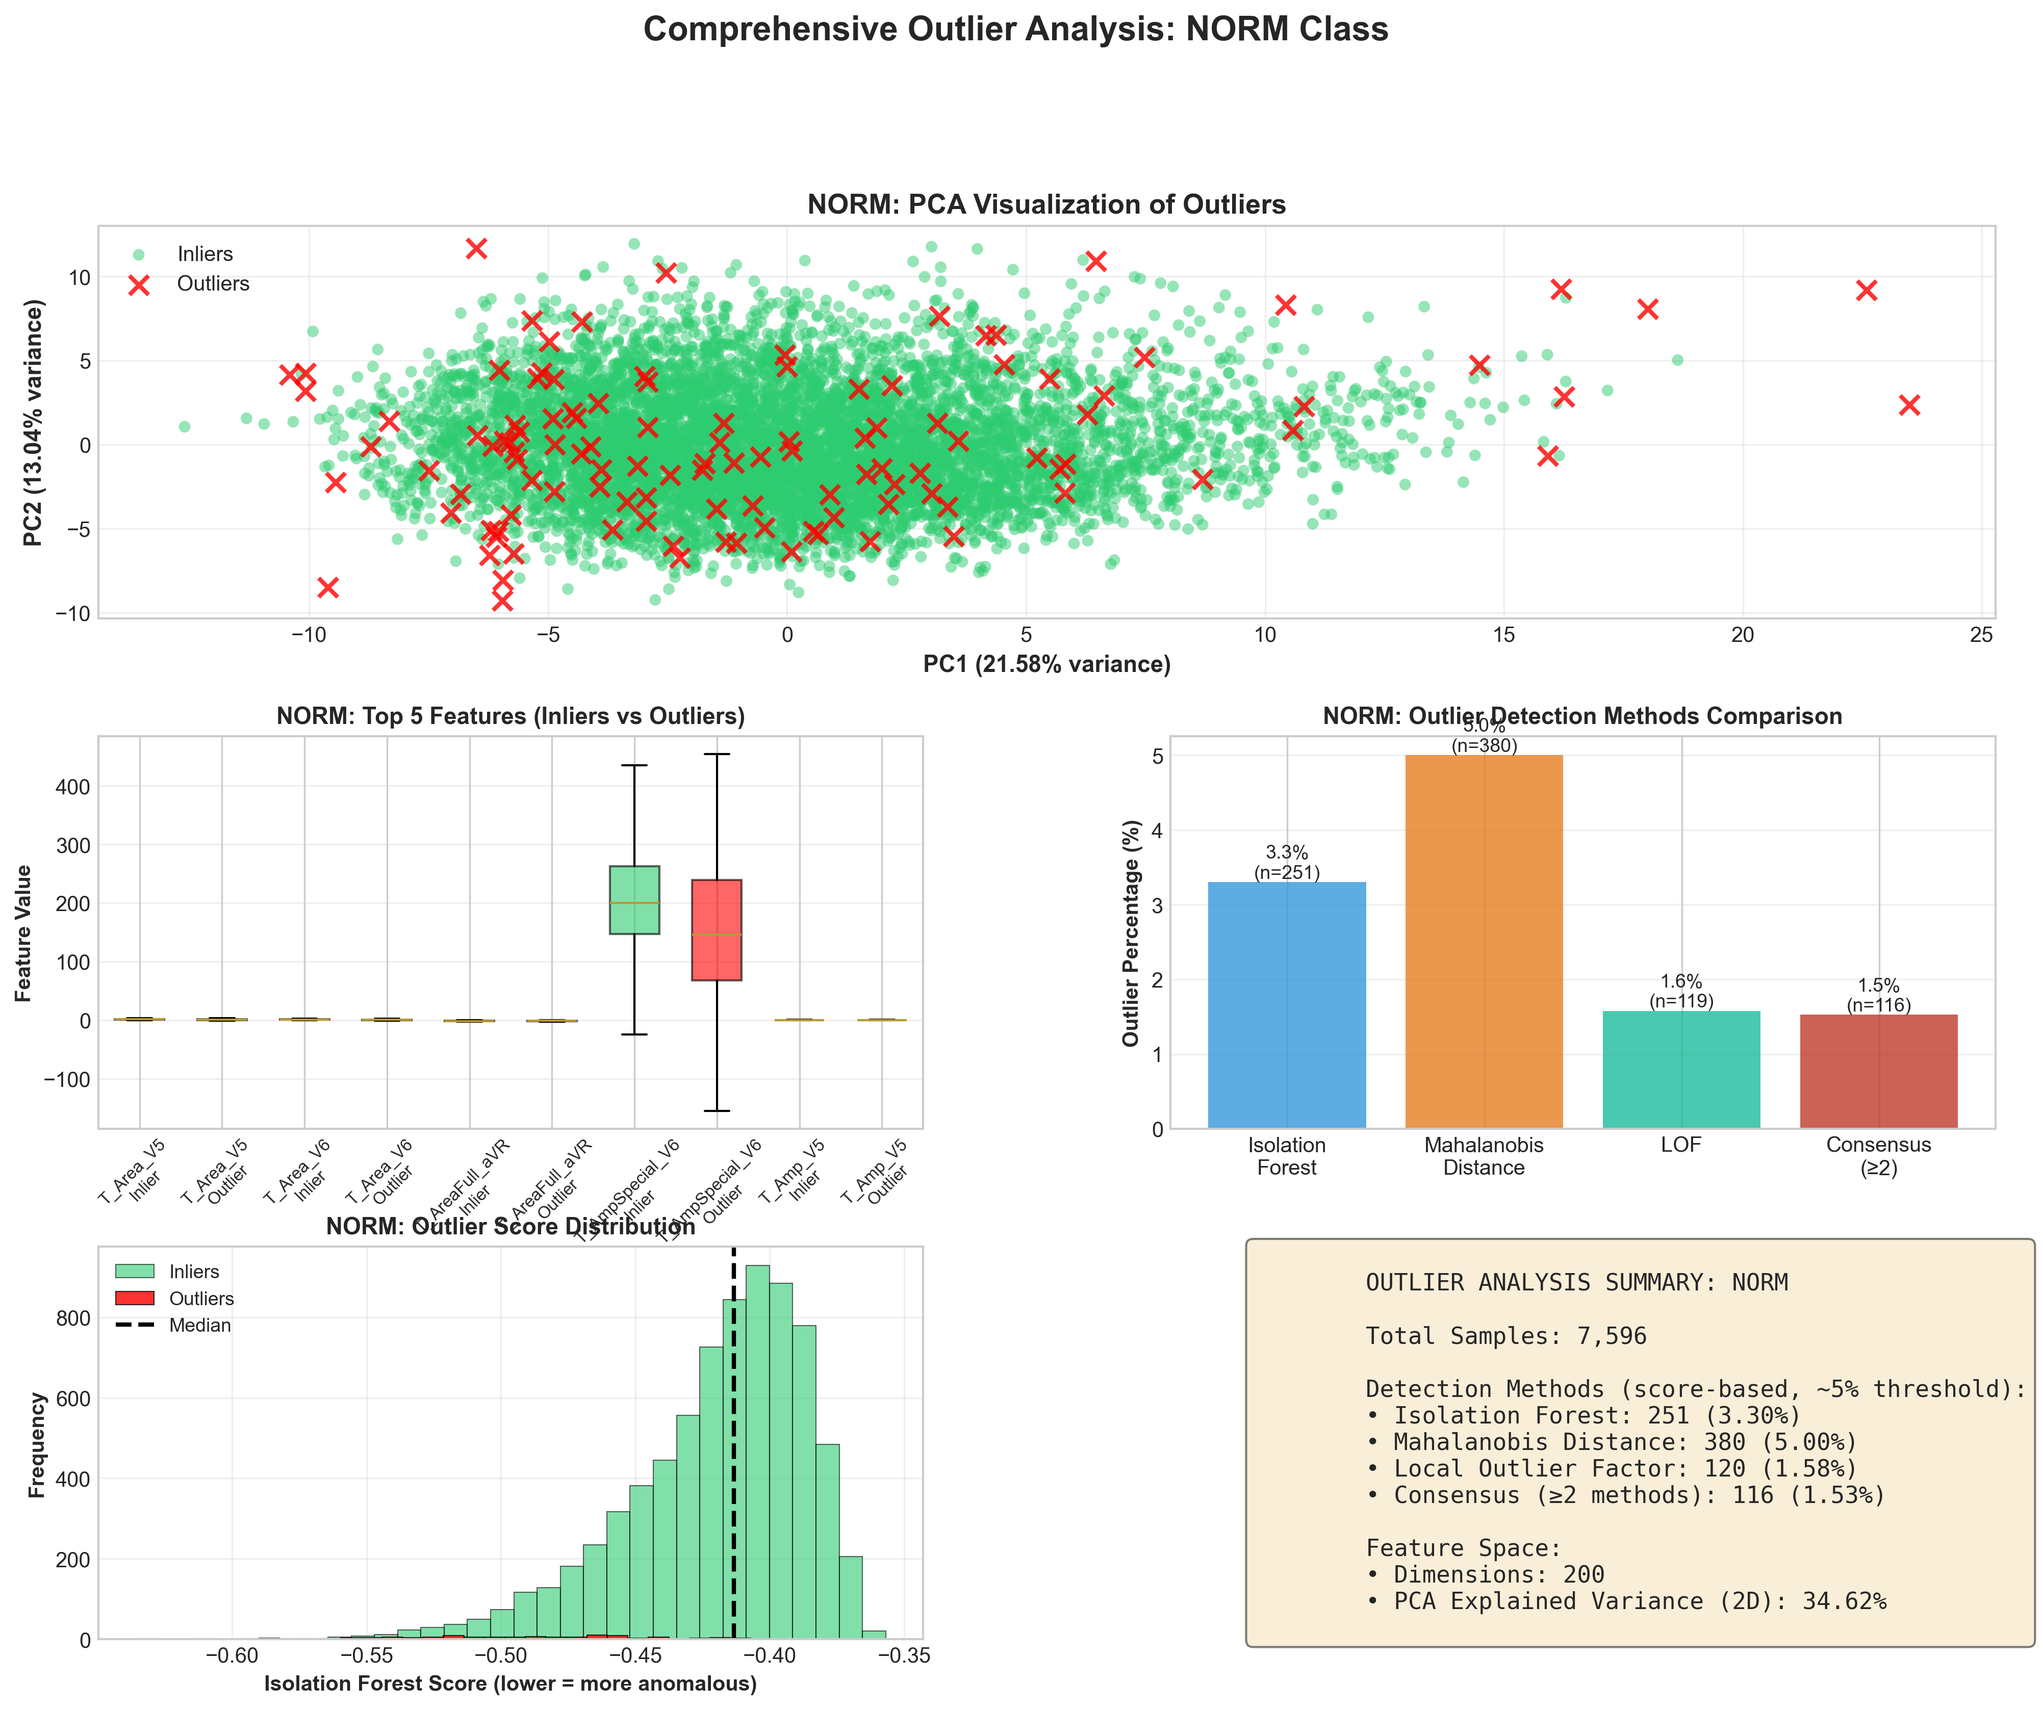
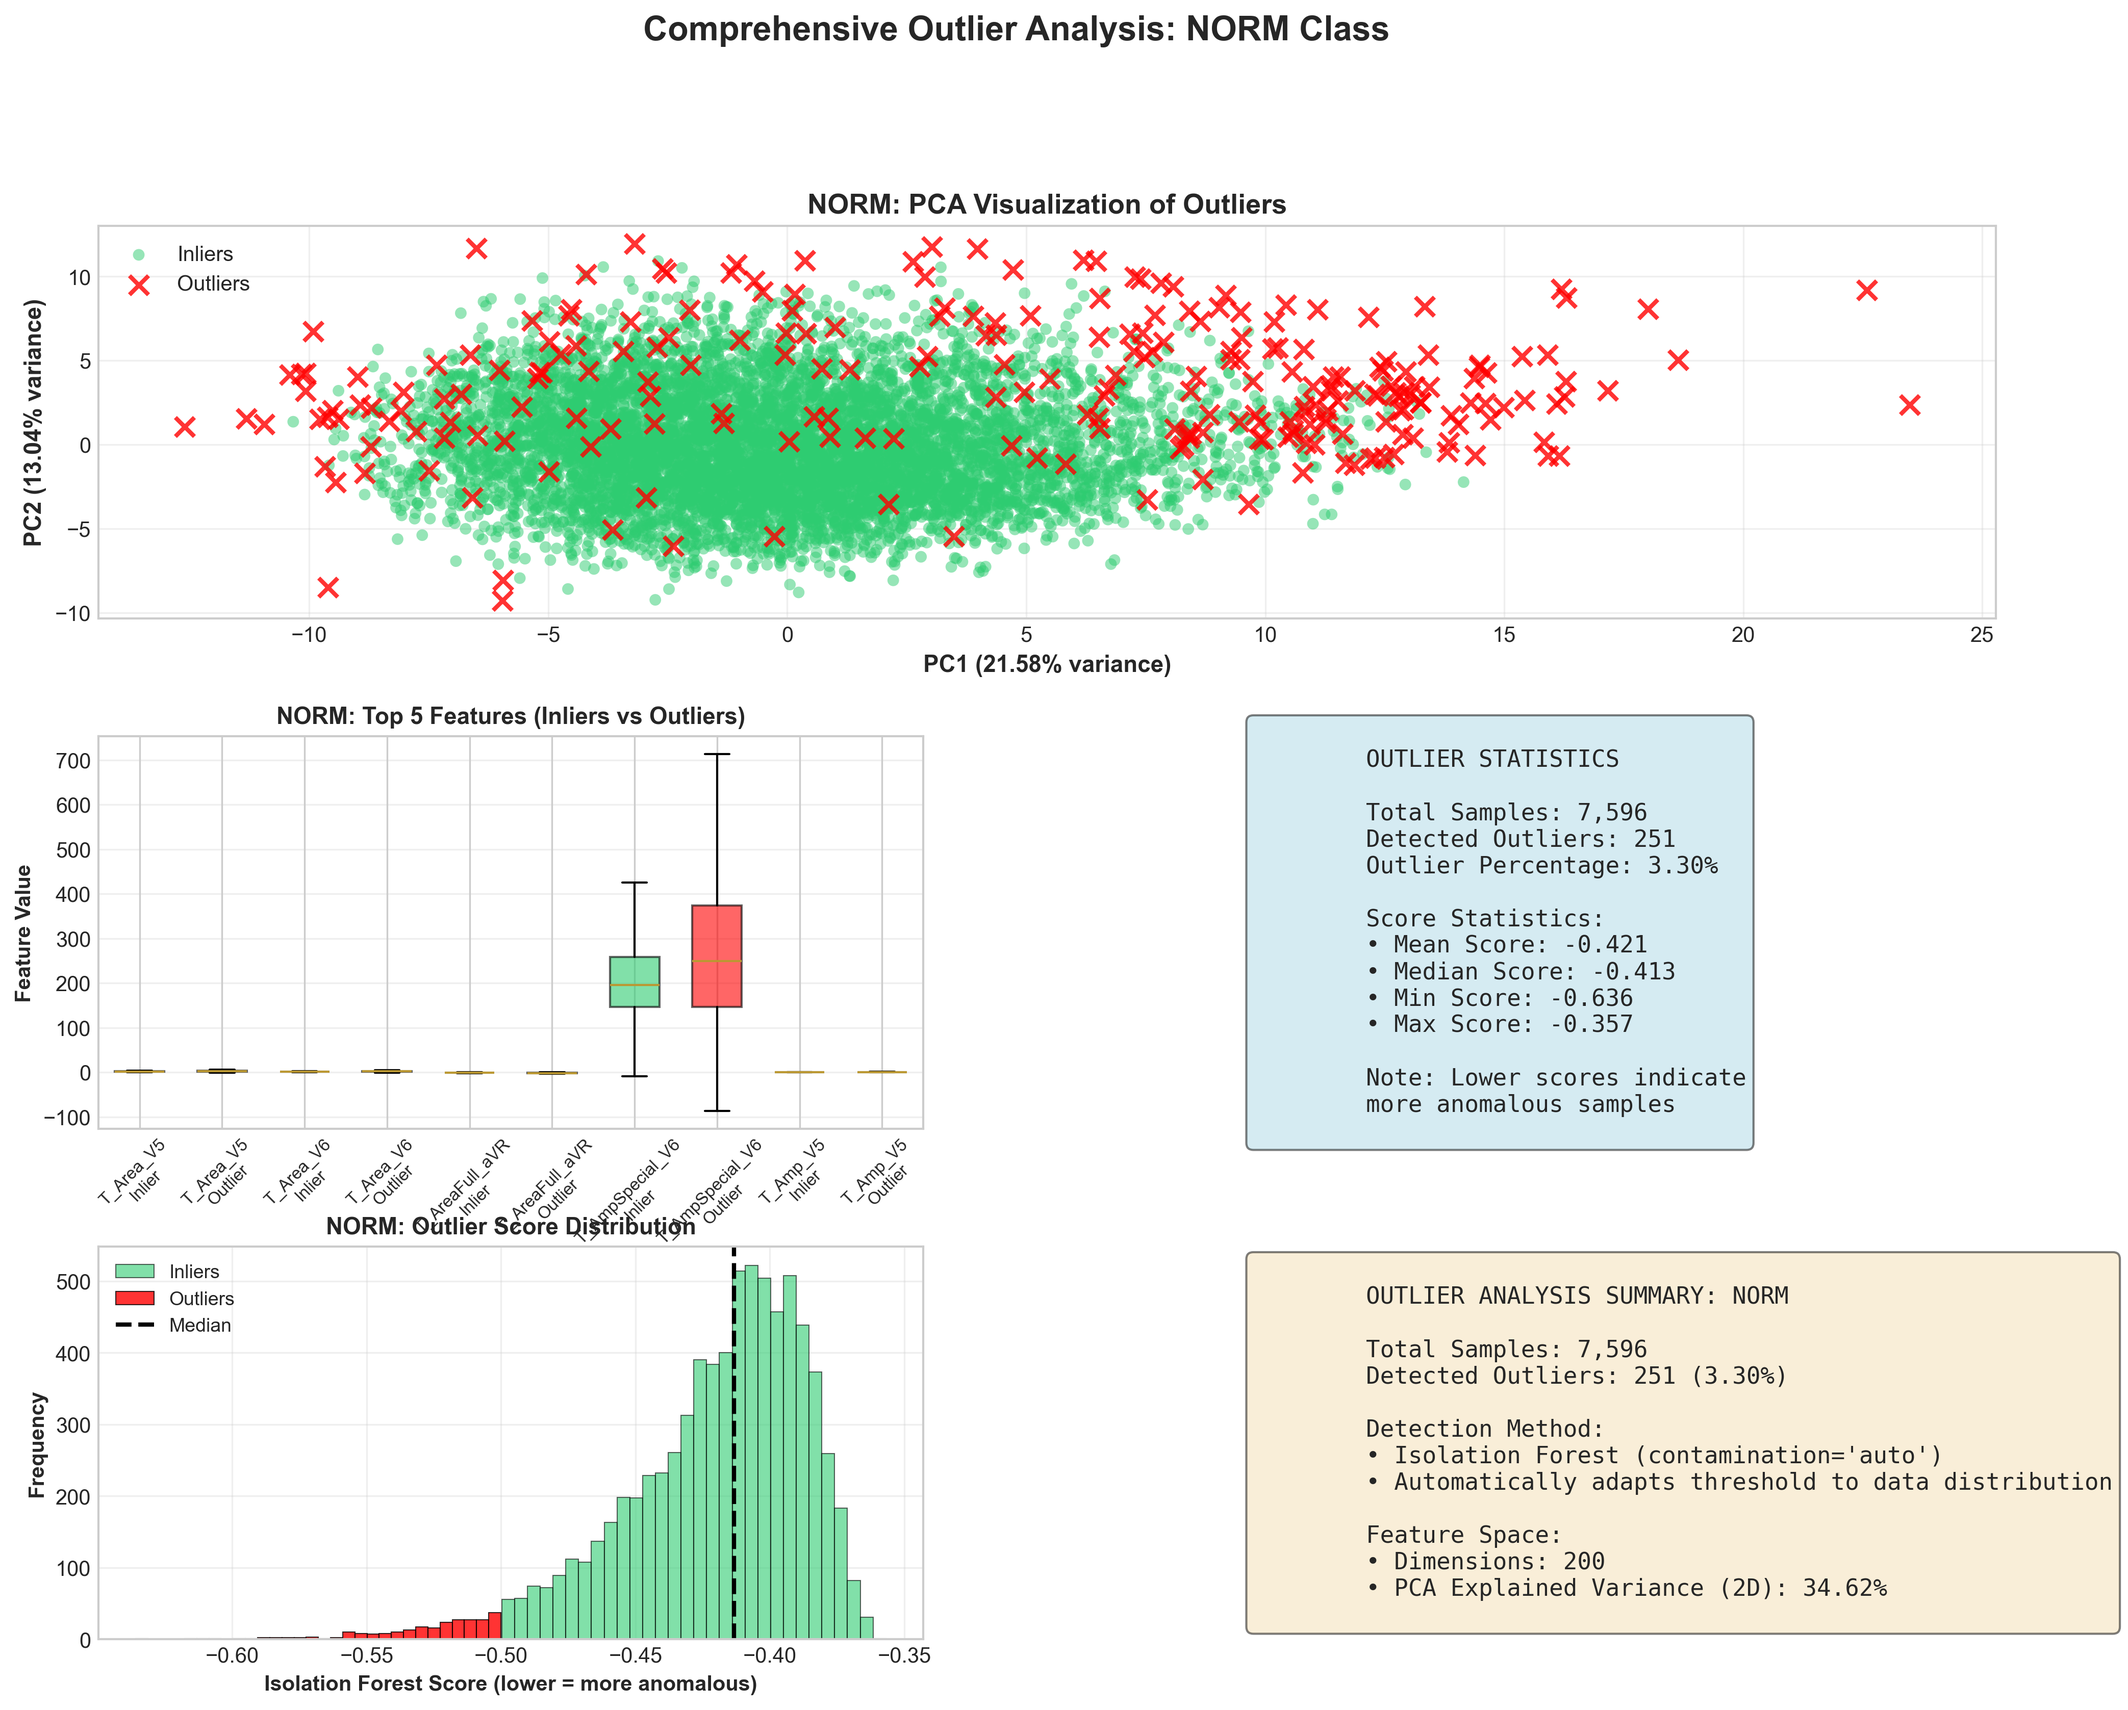
Simplify outlier analysis: use only Isolation Forest method
- Removed Mahalanobis Distance and LOF methods
- Using only Isolation Forest with automatic contamination
- Results: 3.3-7.2% outliers per class (reasonable range)
- Simplified visualizations and summary tables
- Cleaner, more focused analysis approach

diff --git a/src/analysis/outlier_analysis_per_label.py b/src/analysis/outlier_analysis_per_label.py
@@ -9,11 +9,8 @@ import os
 import matplotlib.pyplot as plt
 import seaborn as sns
 from sklearn.ensemble import IsolationForest
-from sklearn.neighbors import LocalOutlierFactor
 from sklearn.decomposition import PCA
 from sklearn.preprocessing import StandardScaler
-from sklearn.covariance import MinCovDet
-from scipy import stats
 import warnings
 warnings.filterwarnings('ignore')
 
@@ -54,47 +51,6 @@ def detect_outliers_isolation_forest(X_scaled):
     
     return outlier_preds == -1, scores  # True for outliers, scores
 
-def detect_outliers_mahalanobis(X_scaled):
-    """Detect outliers using Mahalanobis distance with percentile-based threshold.
-    
-    Uses top 5% of Mahalanobis distances as outliers.
-    Chi-square distribution assumption may not hold for high-dimensional data,
-    so we use percentile-based approach instead.
-    """
-    try:
-        # Use robust covariance estimator (MinCovDet) to handle outliers in covariance estimation
-        robust_cov = MinCovDet(random_state=42).fit(X_scaled)
-        mahal_dist = robust_cov.mahalanobis(X_scaled)
-    except:
-        # Fallback to standard covariance if robust fails
-        try:
-            cov = np.cov(X_scaled.T)
-            inv_cov = np.linalg.inv(cov)
-            mean = np.mean(X_scaled, axis=0)
-            diff = X_scaled - mean
-            mahal_dist = np.sqrt(np.sum(diff @ inv_cov * diff, axis=1))
-        except:
-            # If still fails, return no outliers
-            return np.zeros(X_scaled.shape[0], dtype=bool), np.zeros(X_scaled.shape[0])
-    
-    # Use top 5% percentile as threshold (more conservative than chi-square for high-dim data)
-    threshold = np.percentile(mahal_dist, 95)
-    outlier_mask = mahal_dist >= threshold
-    
-    return outlier_mask, mahal_dist
-
-def detect_outliers_lof(X_scaled):
-    """Detect outliers using Local Outlier Factor with automatic contamination.
-    
-    Higher LOF scores indicate more anomalous samples.
-    Uses 'auto' contamination which adapts to the data distribution.
-    """
-    n_neighbors = min(20, max(10, X_scaled.shape[0] // 10))  # Adaptive neighbors
-    lof = LocalOutlierFactor(n_neighbors=n_neighbors, contamination='auto', n_jobs=-1)
-    outlier_preds = lof.fit_predict(X_scaled)
-    scores = -lof.negative_outlier_factor_  # Higher = more anomalous
-    
-    return outlier_preds == -1, scores  # True for outliers, scores
 
 def analyze_outliers_per_label(train_df, features, target_cols):
     """Analyze outliers for each target label separately."""
@@ -124,47 +80,21 @@ def analyze_outliers_per_label(train_df, features, target_cols):
             print(f"  Skipping {label}: insufficient samples")
             continue
         
-        # Detect outliers using multiple robust methods
-        # Each method uses its own adaptive threshold strategy
-        iso_outliers, iso_scores = detect_outliers_isolation_forest(X_label_scaled)
-        n_iso = iso_outliers.sum()
+        # Detect outliers using Isolation Forest
+        outliers, scores = detect_outliers_isolation_forest(X_label_scaled)
+        n_outliers = outliers.sum()
         
-        # Mahalanobis Distance (chi-square distribution, p < 0.05)
-        mahal_outliers, mahal_dist = detect_outliers_mahalanobis(X_label_scaled)
-        n_mahal = mahal_outliers.sum()
-        
-        # Local Outlier Factor (automatic contamination)
-        lof_outliers, lof_scores = detect_outliers_lof(X_label_scaled)
-        n_lof = lof_outliers.sum()
-        
-        # Consensus: outlier if detected by at least 2 methods (more reliable)
-        consensus_outliers = (iso_outliers.astype(int) + 
-                             mahal_outliers.astype(int) + 
-                             lof_outliers.astype(int)) >= 2
-        n_consensus = consensus_outliers.sum()
-        
-        print(f"  Isolation Forest outliers: {n_iso} ({n_iso/n_samples*100:.2f}%)")
-        print(f"  Mahalanobis Distance outliers: {n_mahal} ({n_mahal/n_samples*100:.2f}%)")
-        print(f"  Local Outlier Factor (LOF) outliers: {n_lof} ({n_lof/n_samples*100:.2f}%)")
-        print(f"  Consensus outliers (≥2 methods): {n_consensus} ({n_consensus/n_samples*100:.2f}%)")
+        print(f"  Isolation Forest outliers: {n_outliers} ({n_outliers/n_samples*100:.2f}%)")
         
         # Store results
         all_results[label] = {
             'indices': label_indices,
             'X': X_label,
             'X_scaled': X_label_scaled,
-            'iso_outliers': iso_outliers,
-            'iso_scores': iso_scores,
-            'mahal_outliers': mahal_outliers,
-            'mahal_dist': mahal_dist,
-            'lof_outliers': lof_outliers,
-            'lof_scores': lof_scores,
-            'consensus_outliers': consensus_outliers,
+            'outliers': outliers,
+            'scores': scores,
             'n_samples': n_samples,
-            'n_iso': n_iso,
-            'n_mahal': n_mahal,
-            'n_lof': n_lof,
-            'n_consensus': n_consensus
+            'n_outliers': n_outliers
         }
     
     return all_results, scaler
@@ -193,10 +123,8 @@ def create_visualizations_per_label(all_results, features, target_cols, scaler):
         summary_data.append({
             'Label': label,
             'Total Samples': res['n_samples'],
-            'Isolation Forest (%)': f"{res['n_iso']/res['n_samples']*100:.2f}",
-            'Mahalanobis Distance (%)': f"{res['n_mahal']/res['n_samples']*100:.2f}",
-            'Local Outlier Factor (%)': f"{res['n_lof']/res['n_samples']*100:.2f}",
-            'Consensus (%)': f"{res['n_consensus']/res['n_samples']*100:.2f}"
+            'Outliers': res['n_outliers'],
+            'Outlier Percentage (%)': f"{res['n_outliers']/res['n_samples']*100:.2f}"
         })
     
     summary_df = pd.DataFrame(summary_data)
@@ -204,39 +132,38 @@ def create_visualizations_per_label(all_results, features, target_cols, scaler):
     print(f"\nSaved summary statistics to {os.path.join(OUTPUT_DIR, 'outlier_summary_per_label.csv')}")
     
     # 2. Bar plot: Outlier percentages per label
-    fig, ax = plt.subplots(figsize=(14, 6))
+    fig, ax = plt.subplots(figsize=(10, 6))
     x = np.arange(len(target_cols))
-    width = 0.2
     
-    methods = ['Isolation Forest', 'Mahalanobis Distance', 'Local Outlier Factor', 'Consensus']
-    colors_methods = ['#3498db', '#e67e22', '#1abc9c', '#c0392b']
+    values = []
+    labels_list = []
+    for label in target_cols:
+        if label in all_results:
+            res = all_results[label]
+            val = res['n_outliers'] / res['n_samples'] * 100
+            values.append(val)
+            labels_list.append(label)
+        else:
+            values.append(0)
+            labels_list.append(label)
     
-    for i, method in enumerate(methods):
-        values = []
-        for label in target_cols:
-            if label in all_results:
-                res = all_results[label]
-                if method == 'Isolation Forest':
-                    val = res['n_iso'] / res['n_samples'] * 100
-                elif method == 'Mahalanobis Distance':
-                    val = res['n_mahal'] / res['n_samples'] * 100
-                elif method == 'Local Outlier Factor':
-                    val = res['n_lof'] / res['n_samples'] * 100
-                else:  # Consensus
-                    val = res['n_consensus'] / res['n_samples'] * 100
-                values.append(val)
-            else:
-                values.append(0)
-        
-        ax.bar(x + i*width, values, width, label=method, color=colors_methods[i], alpha=0.8)
-    
+    bars = ax.bar(x, values, color=[label_colors.get(l, '#95a5a6') for l in labels_list], alpha=0.8)
     ax.set_xlabel('Diagnostic Class', fontsize=12, fontweight='bold')
     ax.set_ylabel('Outlier Percentage (%)', fontsize=12, fontweight='bold')
-    ax.set_title('Outlier Detection by Method Across Diagnostic Classes', fontsize=14, fontweight='bold')
-    ax.set_xticks(x + width * 1.5)
-    ax.set_xticklabels(target_cols)
-    ax.legend(fontsize=10)
+    ax.set_title('Outlier Detection Across Diagnostic Classes (Isolation Forest)', fontsize=14, fontweight='bold')
+    ax.set_xticks(x)
+    ax.set_xticklabels(labels_list)
     ax.grid(axis='y', alpha=0.3)
+    
+    # Add value labels on bars
+    for bar, val, label in zip(bars, values, labels_list):
+        if label in all_results:
+            height = bar.get_height()
+            res = all_results[label]
+            ax.text(bar.get_x() + bar.get_width()/2., height,
+                    f'{val:.2f}%\n(n={res["n_outliers"]})',
+                    ha='center', va='bottom', fontsize=10, fontweight='bold')
+    
     plt.tight_layout()
     plt.savefig(os.path.join(OUTPUT_DIR, 'outlier_comparison_all_labels.png'), dpi=300, bbox_inches='tight')
     print(f"Saved comparison plot to {os.path.join(OUTPUT_DIR, 'outlier_comparison_all_labels.png')}")
@@ -260,8 +187,8 @@ def create_visualizations_per_label(all_results, features, target_cols, scaler):
         X_pca = pca.fit_transform(res['X_scaled'])
         
         # Plot inliers and outliers separately
-        inlier_mask = ~res['consensus_outliers']
-        outlier_mask = res['consensus_outliers']
+        inlier_mask = ~res['outliers']
+        outlier_mask = res['outliers']
         
         ax1.scatter(X_pca[inlier_mask, 0], X_pca[inlier_mask, 1], 
                    c=label_colors[label], alpha=0.5, s=30, label='Inliers', edgecolors='none')
@@ -314,27 +241,33 @@ def create_visualizations_per_label(all_results, features, target_cols, scaler):
         ax2.tick_params(axis='x', rotation=45, labelsize=8)
         ax2.grid(axis='y', alpha=0.3)
         
-        # 3c. Outlier detection method comparison
+        # 3c. Outlier statistics summary
         ax3 = fig.add_subplot(gs[1, 1])
-        methods = ['Isolation\nForest', 'Mahalanobis\nDistance', 'LOF', 'Consensus\n(≥2)']
-        counts = [res['n_iso'], res['n_mahal'], res['n_lof'], res['n_consensus']]
-        percentages = [c/res['n_samples']*100 for c in counts]
+        ax3.axis('off')
         
-        bars = ax3.bar(methods, percentages, color=['#3498db', '#e67e22', '#1abc9c', '#c0392b'], alpha=0.8)
-        ax3.set_ylabel('Outlier Percentage (%)', fontsize=10, fontweight='bold')
-        ax3.set_title(f'{label}: Outlier Detection Methods Comparison', fontsize=11, fontweight='bold')
-        ax3.grid(axis='y', alpha=0.3)
+        stats_text = f"""
+        OUTLIER STATISTICS
         
-        # Add value labels on bars
-        for bar, pct in zip(bars, percentages):
-            height = bar.get_height()
-            ax3.text(bar.get_x() + bar.get_width()/2., height,
-                    f'{pct:.1f}%\n(n={int(height*res["n_samples"]/100)})',
-                    ha='center', va='bottom', fontsize=9)
+        Total Samples: {res['n_samples']:,}
+        Detected Outliers: {res['n_outliers']:,}
+        Outlier Percentage: {res['n_outliers']/res['n_samples']*100:.2f}%
         
-        # 3d. Distribution of outlier scores (using Isolation Forest scores)
+        Score Statistics:
+        • Mean Score: {res['scores'].mean():.3f}
+        • Median Score: {np.median(res['scores']):.3f}
+        • Min Score: {res['scores'].min():.3f}
+        • Max Score: {res['scores'].max():.3f}
+        
+        Note: Lower scores indicate
+        more anomalous samples
+        """
+        
+        ax3.text(0.1, 0.5, stats_text, fontsize=11, family='monospace',
+                verticalalignment='center', bbox=dict(boxstyle='round', facecolor='lightblue', alpha=0.5))
+        
+        # 3d. Distribution of outlier scores
         ax4 = fig.add_subplot(gs[2, 0])
-        scores = res['iso_scores']
+        scores = res['scores']
         
         ax4.hist(scores[inlier_mask], bins=30, alpha=0.6, color=label_colors[label], 
                 label='Inliers', edgecolor='black', linewidth=0.5)
@@ -355,12 +288,11 @@ def create_visualizations_per_label(all_results, features, target_cols, scaler):
         OUTLIER ANALYSIS SUMMARY: {label}
         
         Total Samples: {res['n_samples']:,}
+        Detected Outliers: {res['n_outliers']:,} ({res['n_outliers']/res['n_samples']*100:.2f}%)
         
-        Detection Methods (score-based, ~5% threshold):
-        • Isolation Forest: {res['n_iso']} ({res['n_iso']/res['n_samples']*100:.2f}%)
-        • Mahalanobis Distance: {res['n_mahal']} ({res['n_mahal']/res['n_samples']*100:.2f}%)
-        • Local Outlier Factor: {res['n_lof']} ({res['n_lof']/res['n_samples']*100:.2f}%)
-        • Consensus (≥2 methods): {res['n_consensus']} ({res['n_consensus']/res['n_samples']*100:.2f}%)
+        Detection Method:
+        • Isolation Forest (contamination='auto')
+        • Automatically adapts threshold to data distribution
         
         Feature Space:
         • Dimensions: {res['X'].shape[1]}
